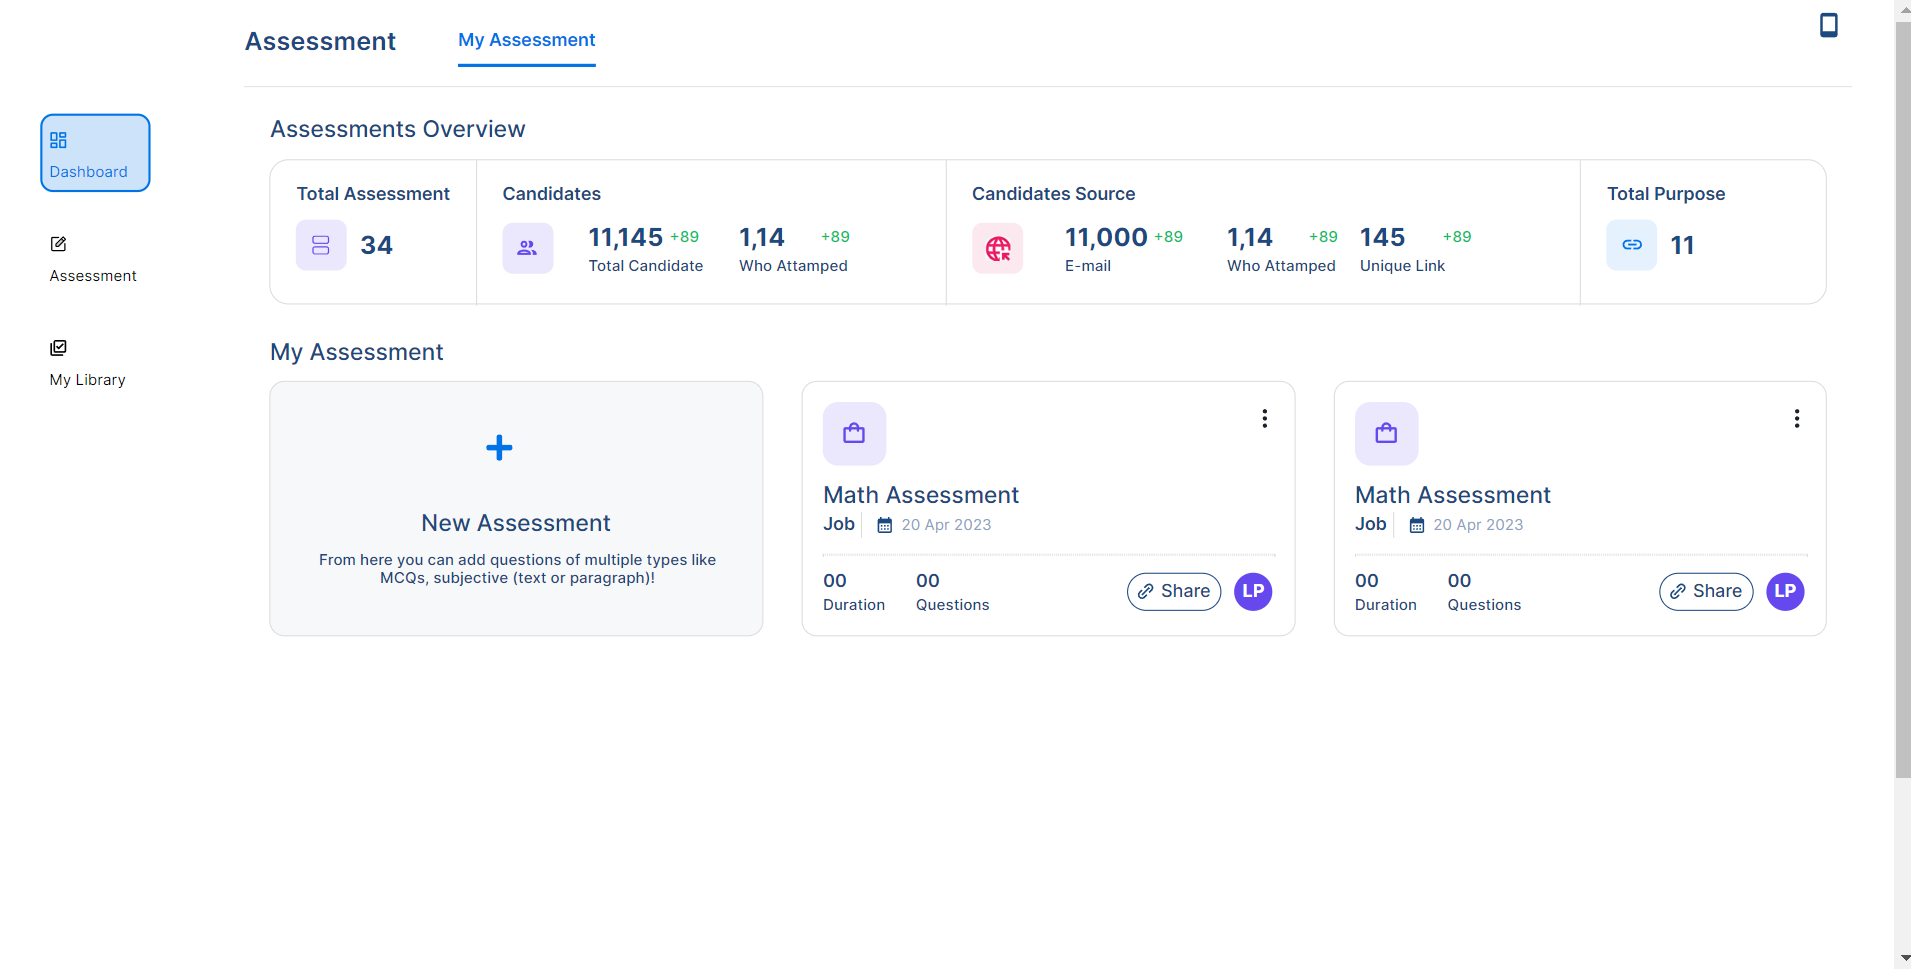
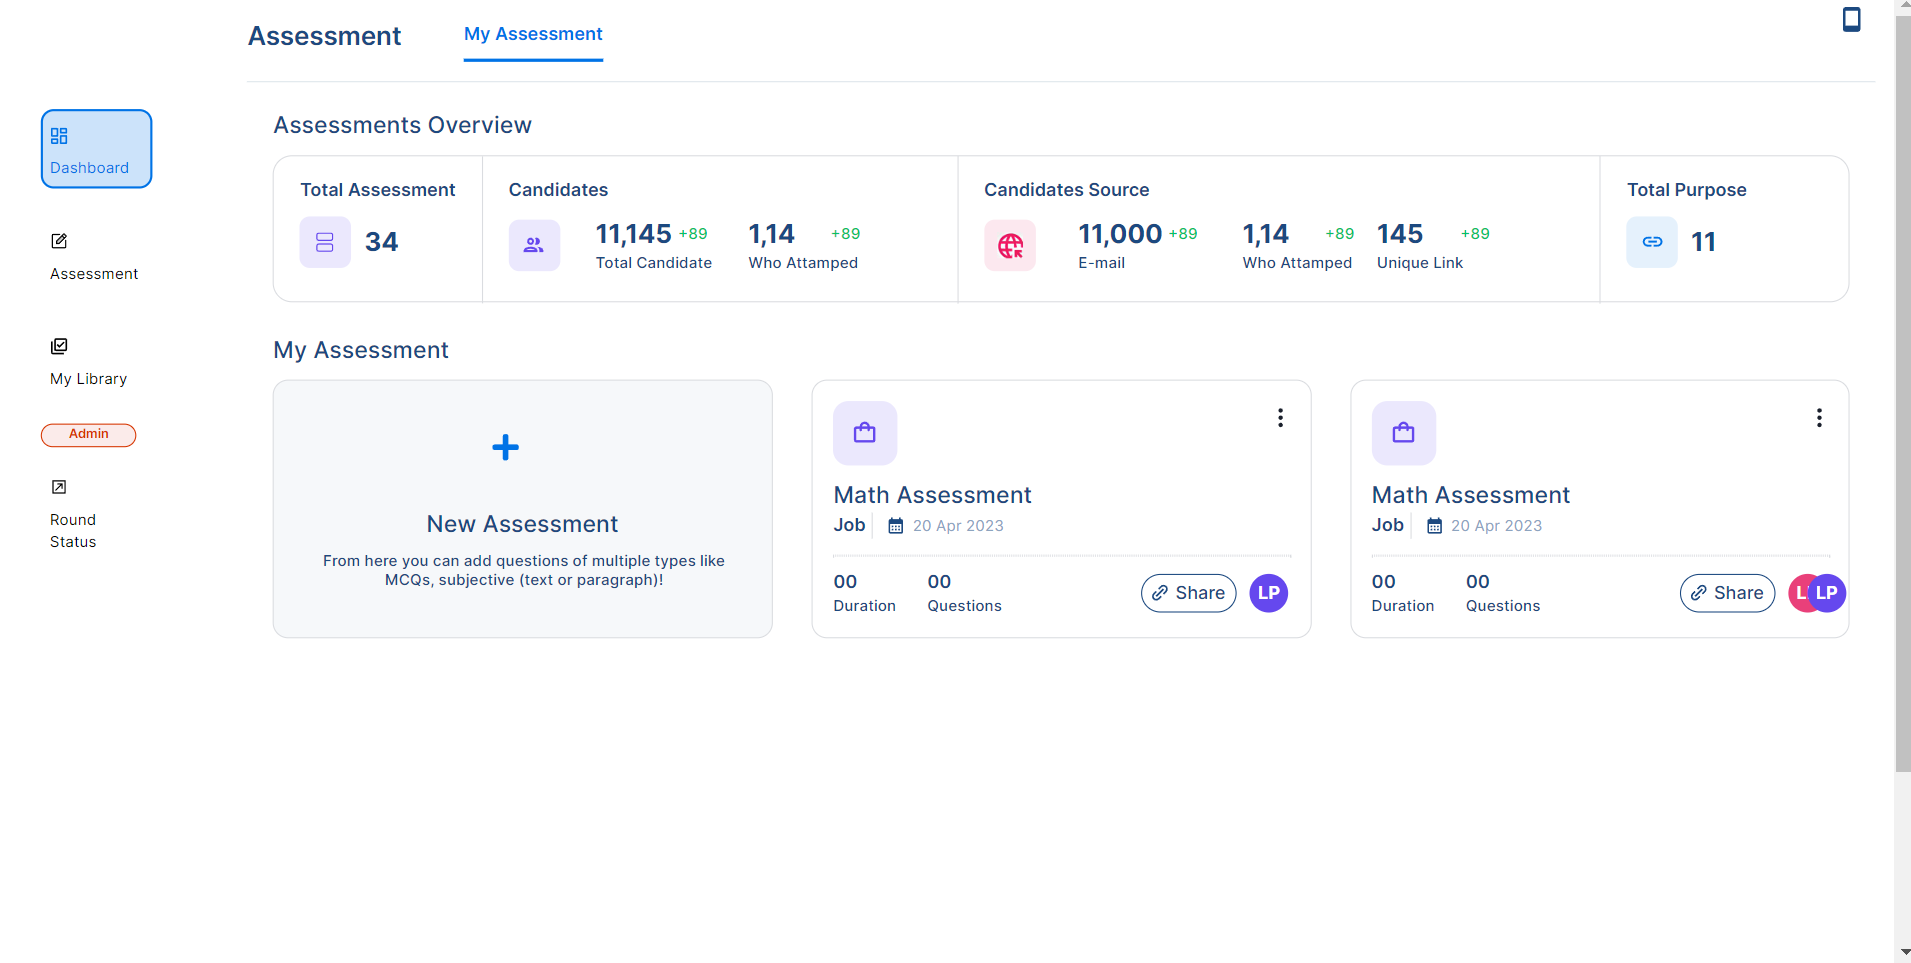
adding images and fix model hieght

diff --git a/src/Components/Sidebar/index.jsx b/src/Components/Sidebar/index.jsx
@@ -15,11 +15,18 @@ import { FiMenu } from "react-icons/fi";
 import { LuLayoutDashboard } from "react-icons/lu";
 import { PiNotePencilDuotone } from "react-icons/pi";
 import { MdOutlineLibraryAddCheck } from "react-icons/md";
+import { LiaExternalLinkSquareAltSolid } from "react-icons/lia";
 
 const LinkItems = [
   { name: "Dashboard", icon: LuLayoutDashboard, path: "/" },
-  { name: "Assessment", icon: PiNotePencilDuotone, path: "/top-tracks" },
-  { name: "My Library", icon: MdOutlineLibraryAddCheck, path: "/favorites" },
+  { name: "Assessment", icon: PiNotePencilDuotone, path: "/Assessment" },
+  { name: "My Library", icon: MdOutlineLibraryAddCheck, path: "/Library" },
+  {
+    name: "Round Status",
+    icon: LiaExternalLinkSquareAltSolid,
+    path: "/admin",
+    type: "Admin",
+  },
 ];
 
 const Sidebar = ({ children }) => {
@@ -82,6 +89,27 @@ const SidebarContent = ({ onClose, ...rest }) => {
           }}
         >
           <Box w={"full"} px={8} py={2} mt={1} fontSize="20px">
+            {item.type ? (
+              <Box
+                w={"74px"}
+                h={"18px"}
+                borderRadius={"22px"}
+                border={"1px solid #D63500"}
+                mb={"10px"}
+                bg={"#FBEBEA"}
+              >
+                <Text
+                  p={"1px 8px"}
+                  fontSize={"10px"}
+                  lineHeight={"12.1px"}
+                  fontWeight={"600"}
+                  color={"#D63500"}
+                  textAlign={"center"}
+                >
+                  {item?.type}
+                </Text>
+              </Box>
+            ) : null}
             <Box
               margin={"auto"}
               borderRadius="10px"

diff --git a/src/Pages/myAssessment/newAssessmentModel/index.jsx b/src/Pages/myAssessment/newAssessmentModel/index.jsx
@@ -41,17 +41,22 @@ const NewAssessmentModal = ({ isOpen, onClose }) => {
       <ModalOverlay />
       <ModalContent
         w="591px"
-        h="616px"
+        h="650px"
         border="1px"
         borderColor="gray.200"
         padding="20px 30px"
         bg="white"
       >
-        <ModalHeader color="#1C4980" fontSize="20px" lineHeight="24.2px">
+        <ModalHeader
+          h={"70px"}
+          color="#1C4980"
+          fontSize="20px"
+          lineHeight="24.2px"
+        >
           Create New Assessment
         </ModalHeader>
         <ModalCloseButton />
-        <ModalBody>
+        <ModalBody h="616px">
           <VStack spacing="20px" align="center">
             <Box w="531px" h="79px" gap="10px" textAlign="center">
               <FormLabel gap={"10px"}>
